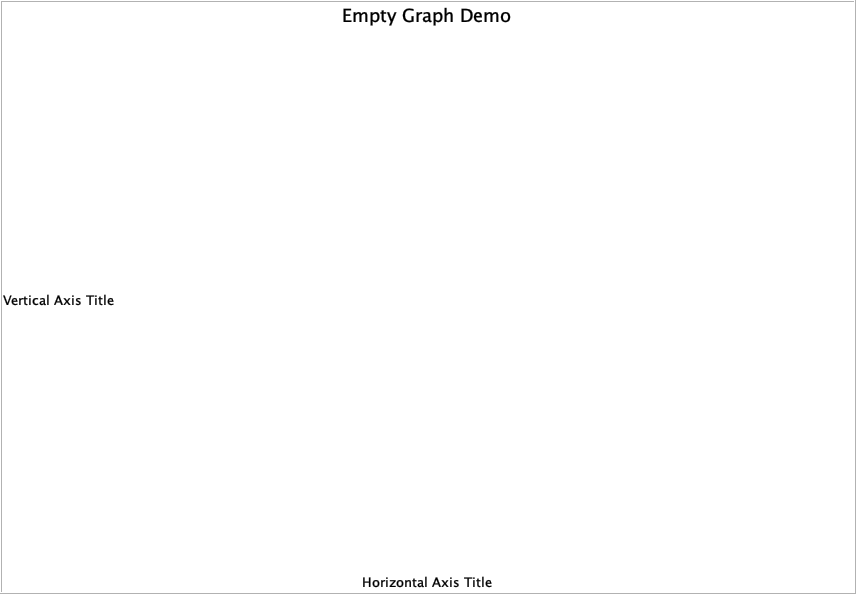
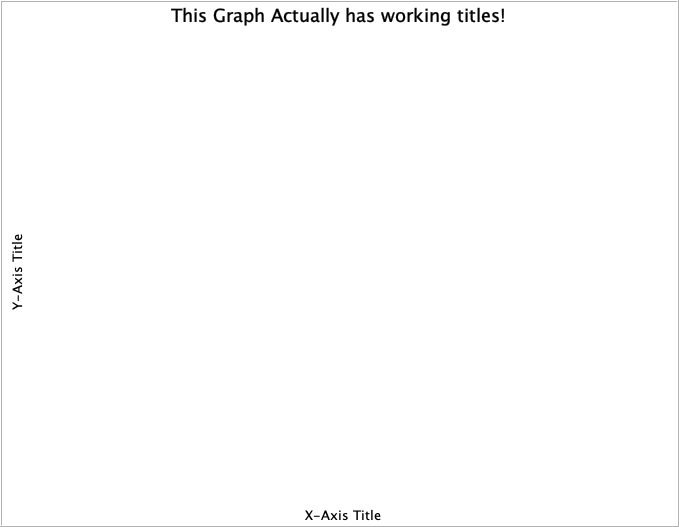
*Mostly* functional gridlines
Still small problems with overlap, though

Changed region(s): [[0.2474, 0.0, 0.7423, 0.0607], [0.0, 0.425, 0.1546, 0.6072], [0.4021, 0.9715, 0.5876, 1.0]]

diff --git a/src/ib/grapher/Graph.java b/src/ib/grapher/Graph.java
@@ -3,6 +3,7 @@ package ib.grapher;
 import java.awt.BorderLayout;
 import java.awt.Dimension;
 import java.awt.Font;
+import java.awt.FontMetrics;
 import java.awt.Graphics;
 import java.awt.Graphics2D;
 import java.awt.event.ActionEvent;
@@ -15,10 +16,8 @@ import java.io.IOException;
 import javax.swing.BoxLayout;
 import javax.swing.JButton;
 import javax.swing.JComboBox;
-import javax.swing.JComponent;
 import javax.swing.JFrame;
 import javax.swing.JLabel;
-import javax.swing.JLayer;
 import javax.swing.JPanel;
 import javax.swing.JTextField;
 import javax.swing.SwingConstants;
@@ -41,6 +40,7 @@ public class Graph extends JFrame {
 
 		// Set up GUI
 		this.setLayout(new BorderLayout());
+		this.setMinimumSize(new Dimension(400, 200));
 
 		this.panelGraph = new JPanel();
 		panelGraph.setPreferredSize(new Dimension(400, 300));
@@ -68,42 +68,145 @@ public class Graph extends JFrame {
 		});
 		panelGraph.add(fieldGraphTitle, BorderLayout.NORTH);
 
-		this.fieldGraphHorizontalAxis = new JTextField();
-		fieldGraphHorizontalAxis.setHorizontalAlignment(SwingConstants.CENTER);
-		fieldGraphHorizontalAxis.setBorder(new EtchedBorder(EtchedBorder.LOWERED));
-		fieldGraphHorizontalAxis.addActionListener(new ActionListener() {
-			public void actionPerformed(ActionEvent e) {
-				Graph.this.setAxisTitleX(fieldGraphHorizontalAxis.getText());
+		this.drawingPanel = new JPanel() {
+			private double xLower = 0;
+			private double yLower = 0;
+			private double xUpper = 0;
+			private double yUpper = 0;
+
+			@Override
+			protected void paintComponent(Graphics g) {
+				// Set up font and graphics objects 
+				Font font = new Font(Font.SANS_SERIF, Font.PLAIN, 12);
+				Graphics2D graphics = (Graphics2D) g;
+				FontMetrics metrics = graphics.getFontMetrics(font);
+
+				// Draw X-axis title
+				graphics.drawString(
+					axisTitleX,
+					(this.getWidth() - metrics.stringWidth(axisTitleX)) / 2,
+					this.getHeight() - 5
+				);
+
+				// Draw Y-axis title
+				Graphics2D rotatedGraphics = (Graphics2D) graphics.create();
+				rotatedGraphics.rotate(
+					-0.5 * Math.PI,
+					metrics.getHeight() + 5,
+					(this.getHeight() + metrics.stringWidth(axisTitleY)) / 2
+				);
+
+				rotatedGraphics.drawString(
+					axisTitleY,
+					metrics.getHeight() + 5,
+					(this.getHeight() + metrics.stringWidth(axisTitleY)) / 2
+				);
+
+				rotatedGraphics.dispose();
+
+				// Set up borders and gridlines
+				graphics.setColor(Main.BLACK);
+
+				if (stepX == null) {
+					xLower = -10;
+					xUpper = 10;
+				} else {
+					xLower = stepX.getFirst().getNumeric();
+					xUpper = stepX.getLast().getNumeric();
+				}
+
+				if (stepY == null) {
+					yLower = -10;
+					yUpper = 10;
+					graphics.drawLine(
+						getRelativeX(xLower),
+						getRelativeY(0),
+						getRelativeX(xUpper),
+						getRelativeY(0)
+					);
+					graphics.drawString(
+						"0",
+						getRelativeX(xLower) - 5 - metrics.stringWidth("0"),
+						getRelativeY(0)
+							+ metrics.getHeight() / 3
+					);
+				} else {
+					yLower = stepY.getFirst().getNumeric();
+					yUpper = stepY.getLast().getNumeric();
+					if (stepY.length() > 2) {
+						for (Cell c : stepY) {
+							if (c.getIndex() != 0 && c.getIndex() != stepY.length() - 1) {
+								graphics.drawLine(
+									25,
+									getRelativeY(c.getNumeric()),
+									this.getWidth(),
+									getRelativeY(c.getNumeric())
+								);
+								graphics.drawString(
+									c.getValue(),
+									getRelativeX(xLower) - 5
+										- metrics.stringWidth(c.getValue()),
+									getRelativeY(c.getNumeric())
+										+ metrics.getHeight() / 3
+								);
+							}
+						}
+					}
+				}
+
+				if (stepX == null) {
+					graphics.drawLine(
+						getRelativeX(0),
+						getRelativeY(yLower),
+						getRelativeX(0),
+						getRelativeY(yUpper)
+					);
+					graphics.drawString(
+						"0",
+						getRelativeX(0) - metrics.stringWidth("0") / 2,
+						getRelativeY(yLower) + 15
+					);
+				} else {
+					if (stepX.length() > 2) {
+						for (Cell c : stepX) {
+							if (c.getIndex() != 0 && c.getIndex() != stepX.length() - 1) {
+								graphics.drawLine(
+									getRelativeX(c.getNumeric()),
+									0,
+									getRelativeX(c.getNumeric()),
+									this.getHeight() - 25
+								);
+								graphics.drawString(
+									c.getValue(),
+									getRelativeX(c.getNumeric())
+										- metrics.stringWidth(c.getValue()) / 2,
+									getRelativeY(yLower) + 15
+								);
+							}
+						}
+					}
+				}
+
+				// Clean up
+				graphics.dispose();
 			}
-		});
-		fieldGraphHorizontalAxis.addFocusListener(new FocusListener() {
-			public void focusGained(FocusEvent e) {};
 
-			public void focusLost(FocusEvent e) {
-				Graph.this.setAxisTitleX(fieldGraphHorizontalAxis.getText());
-			};
-		});
-		panelGraph.add(fieldGraphHorizontalAxis, BorderLayout.SOUTH);
-
-		JLayer<JComponent> rotatedPane = new JLayer();
-		this.fieldGraphVerticalAxis = new RotatedTextField();
-		fieldGraphVerticalAxis.setRotation(-90);
-		fieldGraphVerticalAxis.setHorizontalAlignment(SwingConstants.CENTER);
-		fieldGraphVerticalAxis.setBorder(new EtchedBorder(EtchedBorder.LOWERED));
-		fieldGraphVerticalAxis.addActionListener(new ActionListener() {
-			public void actionPerformed(ActionEvent e) {
-				Graph.this.setAxisTitleY(fieldGraphVerticalAxis.getText());
+			private int getRelativeX(double x) {
+				int labelOffset = axisTitleY.length() == 0 ? 0 : 20;
+				labelOffset += (stepX != null && stepX.length() <= 2) ? 0 : 30;
+				return (int) ((x - xLower) / (xUpper - xLower) * 
+					(this.getWidth() - (20 + labelOffset))) + (10 + labelOffset);
 			}
-		});
-		fieldGraphVerticalAxis.addFocusListener(new FocusListener() {
-			public void focusGained(FocusEvent e) {};
 
-			public void focusLost(FocusEvent e) {
-				Graph.this.setAxisTitleY(fieldGraphVerticalAxis.getText());
-			};
-		});
-		panelGraph.add(fieldGraphVerticalAxis, BorderLayout.WEST);
-
+			private int getRelativeY(double y) {
+				int labelOffset = axisTitleX.length() == 0 ? 0 : 20;
+				labelOffset += (stepY != null && stepY.length() <= 2) ? 0 : 15;
+				return this.getHeight() - (int) ((y - yLower) / (yUpper - yLower) *
+					(this.getHeight() - (20 + labelOffset))) - (10 + labelOffset);
+			}
+		};
+		drawingPanel.setBorder(new EtchedBorder(EtchedBorder.LOWERED));
+		panelGraph.add(drawingPanel, BorderLayout.CENTER);
 
 		this.panelMenu = new JPanel();
 		panelMenu.setLayout(new BoxLayout(panelMenu, BoxLayout.Y_AXIS));
@@ -123,6 +226,11 @@ public class Graph extends JFrame {
 		panelMenu.add(labelGridlineX);
 		this.selectorGridlineX = new SeriesSelector();
 		selectorGridlineX.setPreferredSize(new Dimension(120, 20));
+		selectorGridlineX.addActionListener(new ActionListener() {
+			public void actionPerformed(ActionEvent e) {
+				Graph.this.setGridlinesX((Series) selectorGridlineX.getSelectedItem());
+			}
+		});
 		panelMenu.add(selectorGridlineX);
 
 		this.labelGridlineY = new JLabel("Vertical Gridlines", SwingConstants.CENTER);
@@ -130,7 +238,47 @@ public class Graph extends JFrame {
 		panelMenu.add(labelGridlineY);
 		this.selectorGridlineY = new SeriesSelector();
 		selectorGridlineY.setPreferredSize(new Dimension(120, 20));
+		selectorGridlineY.addActionListener(new ActionListener() {
+			public void actionPerformed(ActionEvent e) {
+				Graph.this.setGridlinesY((Series) selectorGridlineY.getSelectedItem());
+			}
+		});
 		panelMenu.add(selectorGridlineY);
+
+		panelMenu.add(new JLabel("X-Axis Title", SwingConstants.CENTER));
+		this.fieldGraphHorizontalAxis = new JTextField();
+		fieldGraphHorizontalAxis.setPreferredSize(new Dimension(120, 20));
+		fieldGraphHorizontalAxis.addActionListener(new ActionListener() {
+			public void actionPerformed(ActionEvent e) {
+				Graph.this.setAxisTitleX(fieldGraphHorizontalAxis.getText());
+			}
+		});
+		fieldGraphHorizontalAxis.addFocusListener(new FocusListener() {
+			public void focusGained(FocusEvent e) {};
+
+			public void focusLost(FocusEvent e) {
+				Graph.this.setAxisTitleX(fieldGraphHorizontalAxis.getText());
+			};
+		});
+		panelMenu.add(fieldGraphHorizontalAxis);
+
+
+		panelMenu.add(new JLabel("Y-Axis Title", SwingConstants.CENTER));
+		this.fieldGraphVerticalAxis = new JTextField();
+		fieldGraphVerticalAxis.setPreferredSize(new Dimension(120, 20));
+		fieldGraphVerticalAxis.addActionListener(new ActionListener() {
+			public void actionPerformed(ActionEvent e) {
+				Graph.this.setAxisTitleY(fieldGraphVerticalAxis.getText());
+			}
+		});
+		fieldGraphVerticalAxis.addFocusListener(new FocusListener() {
+			public void focusGained(FocusEvent e) {};
+
+			public void focusLost(FocusEvent e) {
+				Graph.this.setAxisTitleY(fieldGraphVerticalAxis.getText());
+			};
+		});
+		panelMenu.add(fieldGraphVerticalAxis);
 
 		glue = (Filler) Box.createVerticalGlue();
 		glue.changeShape(
@@ -178,8 +326,10 @@ public class Graph extends JFrame {
 
 	// GUI components
 
-	/** The actual panel to draw on. */
+	/** The actual panel containing the graph. */
 	private JPanel panelGraph;
+	/** The panel drawn on when graphing, never directly modified by the user. */
+	private JPanel drawingPanel;
 
 	/** The right-hand menu column of the GUI. */
 	private JPanel panelMenu;
@@ -204,12 +354,17 @@ public class Graph extends JFrame {
 
 	/** A text field for the graph title. */
 	private JTextField fieldGraphTitle;
+
+	// Axis titles are edited from the sidebar, mainly because that's way easier
+	// in Swing than rotated text fields, but also because it allows empty 
+	// titles to be hidden.
+
 	/** A text field for the horizontal axis title. */
 	private JTextField fieldGraphHorizontalAxis;
 	/** A text field for the verticalAxis title. */
-	private RotatedTextField fieldGraphVerticalAxis;
+	private JTextField fieldGraphVerticalAxis;
 
-	class RotatedTextField extends JTextField {
+	class RotatedLabel extends JLabel {
 
 		/** How far to rotate this text field. */
 		private double rotation;
@@ -257,8 +412,6 @@ public class Graph extends JFrame {
 	public void export() {
 		// Clear text field borders
 		fieldGraphTitle.setBorder(null);
-		fieldGraphHorizontalAxis.setBorder(null);
-		fieldGraphVerticalAxis.setBorder(null);
 	
 		// Export
 		BufferedImage img = new BufferedImage(
@@ -275,8 +428,6 @@ public class Graph extends JFrame {
 
 		// Re-add borders
 		fieldGraphTitle.setBorder(new EtchedBorder(EtchedBorder.LOWERED));
-		fieldGraphHorizontalAxis.setBorder(new EtchedBorder(EtchedBorder.LOWERED));
-		fieldGraphVerticalAxis.setBorder(new EtchedBorder(EtchedBorder.LOWERED));
 	}
 
 	// Getters and setters

diff --git a/src/ib/grapher/Main.java b/src/ib/grapher/Main.java
@@ -13,6 +13,7 @@ import java.util.List;
  * The main class of the grapher, in charge of managing other windows.
  */
 public class Main {
+	public static final Color BLACK = new Color(0, 0, 0);
 	public static final Color WHITE = new Color(255, 255, 255);
 	public static final Color LIGHT_YELLOW = new Color(255, 255, 200);
 	public static final Color YELLOW = new Color(255, 255, 150);
